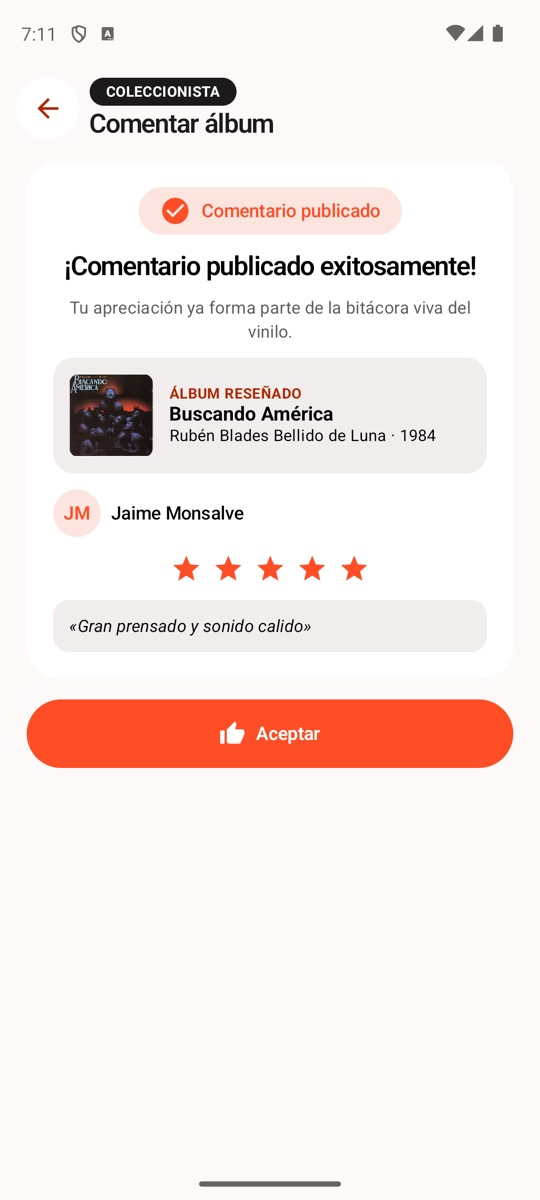
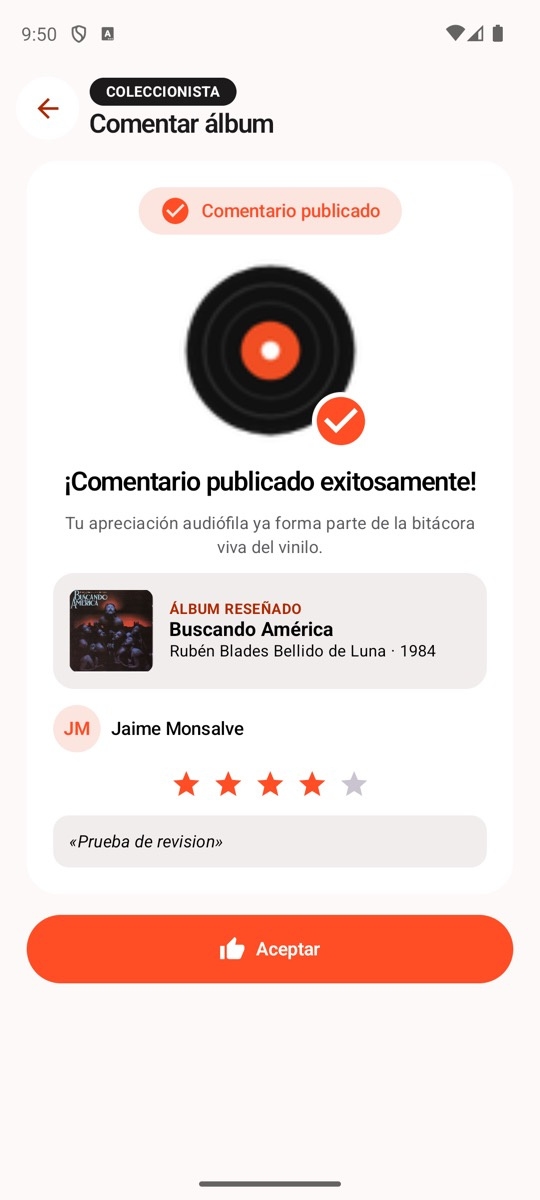
fix(HU09): correcciones de la revisión del PR #112
| Punto de la revisión | Corrección |
|---|---|
| 1. Un 404 al cargar el álbum sin guardar no mostraba el error | `ComentarAlbumViewModel` trata `AlbumNoDisponible` como "no se pudo obtener": `CargaAlbum.Error` con "Reintentar", como pide la spec y la D3. Prueba nueva, escrita antes del arreglo |
| 3. Textos del mockup | "Tu experiencia sobre el máster, prensado y audio" y "Tu apreciación audiófila ya forma parte de la bitácora viva del vinilo." |
| 3. Ilustración del éxito | Vinilo con la marca de publicado, como en el mockup |
| 3. Imports | `Session` importado en `VinilosNavHost`; orden de imports en `VinilosNavHostTest` |

El punto 2 (acceso desde el detalle frente a la wiki y el #50) se resuelve en la descripción del PR: `Closes #50` pasa a `Refs #50` hasta actualizar la wiki (T09-6, #52).

Verificado: 449 unitarias sin fallos, lint con 0 errores, instrumentadas compilan y la pantalla de éxito revisada en el emulador.

Changed region(s): [[0.0296, 0.2158, 0.9481, 0.7092], [0.0296, 0.74, 0.9481, 0.8325], [0.0593, 0.0, 0.1185, 0.0308]]

diff --git a/app/src/main/java/com/example/vinilos/ui/comentar/PantallaComentarAlbum.kt b/app/src/main/java/com/example/vinilos/ui/comentar/PantallaComentarAlbum.kt
@@ -1,6 +1,7 @@
 package com.example.vinilos.ui.comentar
 
 import androidx.activity.compose.BackHandler
+import androidx.compose.foundation.Image
 import androidx.compose.foundation.background
 import androidx.compose.foundation.layout.Arrangement
 import androidx.compose.foundation.layout.Box
@@ -45,6 +46,7 @@ import androidx.compose.ui.Alignment
 import androidx.compose.ui.Modifier
 import androidx.compose.ui.draw.clip
 import androidx.compose.ui.platform.testTag
+import androidx.compose.ui.res.painterResource
 import androidx.compose.ui.res.stringResource
 import androidx.compose.ui.semantics.contentDescription
 import androidx.compose.ui.semantics.selected
@@ -472,6 +474,7 @@ private fun ContenidoPublicado(album: Album, coleccionista: String, estado: Come
                 color = MaterialTheme.colorScheme.primary
             )
         }
+        IlustracionPublicado(Modifier.align(Alignment.CenterHorizontally))
         Text(
             stringResource(R.string.comentar_publicado_titulo),
             style = MaterialTheme.typography.titleLarge,
@@ -546,6 +549,31 @@ private fun ContenidoPublicado(album: Album, coleccionista: String, estado: Come
         Icon(Icons.Filled.ThumbUp, contentDescription = null, modifier = Modifier.size(20.dp))
         Spacer(Modifier.width(8.dp))
         Text(stringResource(R.string.comentar_aceptar), style = MaterialTheme.typography.labelLarge)
+    }
+}
+
+/** Vinilo con la marca de publicado, como en el mockup de éxito. */
+@Composable
+private fun IlustracionPublicado(modifier: Modifier = Modifier) {
+    Box(modifier.size(152.dp)) {
+        Image(
+            painter = painterResource(R.drawable.vinilo_logo),
+            contentDescription = stringResource(R.string.comentar_ilustracion),
+            modifier = Modifier
+                .size(140.dp)
+                .align(Alignment.Center)
+                .clip(CircleShape)
+        )
+        Icon(
+            imageVector = Icons.Filled.CheckCircle,
+            contentDescription = null,
+            tint = MaterialTheme.colorScheme.primary,
+            modifier = Modifier
+                .align(Alignment.BottomEnd)
+                .size(44.dp)
+                .clip(CircleShape)
+                .background(MaterialTheme.colorScheme.surface)
+        )
     }
 }
 

diff --git a/app/src/main/java/com/example/vinilos/navigation/VinilosNavHost.kt b/app/src/main/java/com/example/vinilos/navigation/VinilosNavHost.kt
@@ -14,6 +14,7 @@ import androidx.navigation.compose.NavHost
 import androidx.navigation.compose.composable
 import androidx.navigation.navArgument
 import com.example.vinilos.data.model.ArtistType
+import com.example.vinilos.data.model.Session
 import com.example.vinilos.data.repository.AlbumRepository
 import com.example.vinilos.data.repository.ArtistRepository
 import com.example.vinilos.data.repository.CollectorRepository
@@ -273,7 +274,7 @@ fun VinilosNavHost(
             )
             val estado by viewModel.uiState.collectAsStateWithLifecycle()
             val session by sessionViewModel.session.collectAsStateWithLifecycle()
-            val coleccionista = (session as? com.example.vinilos.data.model.Session.Collector)?.collector
+            val coleccionista = (session as? Session.Collector)?.collector
             if (coleccionista != null) {
                 // Solo el Coleccionista comprueba y guarda favoritos; el Visitante no ve el botón.
                 val favoritoViewModel: FavoritoViewModel = viewModel(
@@ -355,7 +356,7 @@ fun VinilosNavHost(
             arguments = listOf(navArgument("id") { type = NavType.IntType })
         ) {
             val session by sessionViewModel.session.collectAsStateWithLifecycle()
-            val coleccionista = (session as? com.example.vinilos.data.model.Session.Collector)?.collector
+            val coleccionista = (session as? Session.Collector)?.collector
             // La pila se restaura al morir el proceso, pero la sesión no.
             if (coleccionista == null) {
                 LaunchedEffect(Unit) { cerrarComentar() }

diff --git a/app/src/main/java/com/example/vinilos/viewmodel/ComentarAlbumViewModel.kt b/app/src/main/java/com/example/vinilos/viewmodel/ComentarAlbumViewModel.kt
@@ -4,6 +4,7 @@ import androidx.lifecycle.ViewModel
 import androidx.lifecycle.viewModelScope
 import com.example.vinilos.data.model.ComentarioNuevo
 import com.example.vinilos.data.remote.ErrorDeCarga
+import com.example.vinilos.data.repository.AlbumNoDisponible
 import com.example.vinilos.data.repository.AlbumRepository
 import com.example.vinilos.data.repository.ComentarioRepository
 import kotlinx.coroutines.flow.MutableStateFlow
@@ -40,7 +41,8 @@ class ComentarAlbumViewModel(
         viewModelScope.launch {
             val album = albumRepository.obtenerAlbumGuardado(albumId)
                 ?: albumRepository.obtenerAlbum(albumId).getOrElse {
-                    if (it !is ErrorDeCarga) throw it
+                    // Un 404 llega como AlbumNoDisponible, que no es ErrorDeCarga: también es "no se pudo obtener".
+                    if (it !is ErrorDeCarga && it !is AlbumNoDisponible) throw it
                     null
                 }
             _uiState.update { it.copy(album = album?.let(CargaAlbum::Listo) ?: CargaAlbum.Error) }

diff --git a/app/src/test/java/com/example/vinilos/viewmodel/ComentarAlbumViewModelTest.kt b/app/src/test/java/com/example/vinilos/viewmodel/ComentarAlbumViewModelTest.kt
@@ -6,6 +6,7 @@ import com.example.vinilos.data.model.AlbumNuevo
 import com.example.vinilos.data.model.AlbumResumen
 import com.example.vinilos.data.model.ComentarioNuevo
 import com.example.vinilos.data.remote.ErrorDeCarga
+import com.example.vinilos.data.repository.AlbumNoDisponible
 import com.example.vinilos.data.repository.AlbumRepository
 import com.example.vinilos.data.repository.ComentarioRepository
 import kotlinx.coroutines.CompletableDeferred
@@ -120,6 +121,18 @@ class ComentarAlbumViewModelTest {
 
         assertEquals(CargaAlbum.Listo(album), viewModel.uiState.value.album)
         assertEquals(2, albumes.consultas.size)
+    }
+
+    @Test
+    fun siElBackendYaNoTieneElAlbumMuestraError() = runTest {
+        albumes.guardados.clear()
+        val viewModel = viewModel()
+        advanceUntilIdle()
+
+        albumes.responder(Result.failure(AlbumNoDisponible()))
+        advanceUntilIdle()
+
+        assertEquals(CargaAlbum.Error, viewModel.uiState.value.album)
     }
 
     @Test

diff --git a/app/src/androidTest/java/com/example/vinilos/navigation/VinilosNavHostTest.kt b/app/src/androidTest/java/com/example/vinilos/navigation/VinilosNavHostTest.kt
@@ -1,7 +1,5 @@
 package com.example.vinilos.navigation
 
-import com.example.vinilos.data.model.ComentarioNuevo
-import com.example.vinilos.data.repository.ComentarioRepository
 import androidx.compose.runtime.remember
 import androidx.compose.ui.platform.LocalContext
 import androidx.compose.ui.test.assertIsDisplayed
@@ -28,8 +26,10 @@ import com.example.vinilos.data.model.Artist
 import com.example.vinilos.data.model.ArtistType
 import com.example.vinilos.data.model.ArtistaDetalle
 import com.example.vinilos.data.model.Collector
+import com.example.vinilos.data.model.ComentarioNuevo
 import com.example.vinilos.data.model.Session
 import com.example.vinilos.data.repository.ArtistaNoDisponible
+import com.example.vinilos.data.repository.ComentarioRepository
 import com.example.vinilos.data.remote.ErrorDeCarga
 import com.example.vinilos.ui.artistas.TagArtistas
 import com.example.vinilos.ui.artistas.TagBotonFavorito

diff --git a/docs/pruebas/sprint-3/HU09/resultados.md b/docs/pruebas/sprint-3/HU09/resultados.md
@@ -6,7 +6,7 @@ Ejecución del 2026-11-18 sobre `feature/HU09-comentar-album`, con el cambio Ope
 
 | Suite | Resultado | Entorno |
 |---|---|---|
-| Unitarias (`testDebugUnitTest`) | 448 sin fallos (44 nuevas, escritas antes del código) | JVM |
+| Unitarias (`testDebugUnitTest`) | 449 sin fallos (45 nuevas, escritas antes del código) | JVM |
 | Lint (`lintDebug`) | 0 errores; solo los 2 avisos de navigation 2.10, que son intencionales | JVM |
 | Instrumentadas (`connectedDebugAndroidTest`) | 224 pruebas: 223 pasan y 1 se omite (la de siempre, `ArtistaDetalleE2ETest.unArtistaSinAlbumesNiPremiosMuestraLosMensajesDeVacio`) | Emulador Pixel 8 (API 34) |
 | OpenSpec | `openspec validate add-comentar-album --strict` pasa | — |
@@ -17,7 +17,7 @@ Pruebas unitarias nuevas:
 |---|---|---|
 | `ComentarioRepositoryTest` | 5 | Ruta y cuerpo del `POST`, y 404, 400, 500 y sin conexión como `ErrorDeCarga` |
 | `ComentarAlbumUiStateTest` | 10 | `puedePublicar`, `tieneBorrador`, niveles de calificación y límite de 400 |
-| `ComentarAlbumViewModelTest` | 23 | Carga del álbum, edición, envío, guarda contra dos toques, error, salida y diálogo |
+| `ComentarAlbumViewModelTest` | 24 | Carga del álbum (incluido un 404), edición, envío, guarda contra dos toques, error, salida y diálogo |
 | `AlbumViewModelTest` | 3 | `actualizar()` después de comentar |
 | `RepositoriosDispatcherTest` | 1 | Publicar corre en el dispatcher inyectado |
 | `AppContainerTest` | 2 | El contenedor crea y permite reemplazar el repositorio |
@@ -46,6 +46,15 @@ El backend guardó el comentario con el coleccionista 101 (Jaime Monsalve) y la 
 | Defecto | Corrección |
 |---|---|
 | El botón "Comentar álbum" no tenía nombre para la accesibilidad: Material oculta el texto del botón extendido, como pasó en HU07 | El ícono lleva la descripción "Comentar álbum". Se verificó de nuevo en el emulador |
+
+## Correcciones de la revisión del PR
+
+| Punto (@jeffrey-uandes) | Corrección |
+|---|---|
+| Un 404 al cargar el álbum sin guardar dejaba la pantalla en "Cargando" (y en la app la excepción escapaba del `launch`) | `AlbumNoDisponible` también lleva a `CargaAlbum.Error` con "Reintentar"; prueba nueva en `ComentarAlbumViewModelTest` |
+| Textos distintos del mockup | Subtítulo "Tu experiencia sobre el máster, prensado y audio" y "Tu apreciación audiófila ya forma parte…" |
+| Faltaba la ilustración del vinilo en el éxito | Vinilo con la marca de publicado (`07_comentario_publicado.jpg`, recapturada) |
+| Imports | `Session` importado en `VinilosNavHost` y orden corregido en `VinilosNavHostTest` |
 
 ## Sin verificar
 
